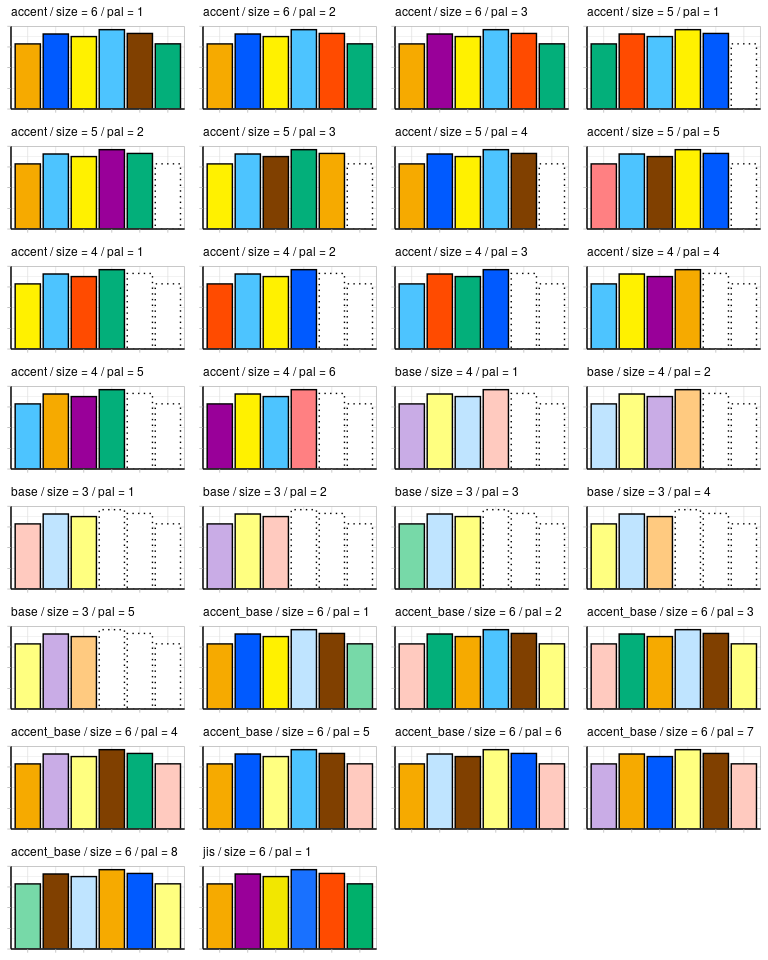
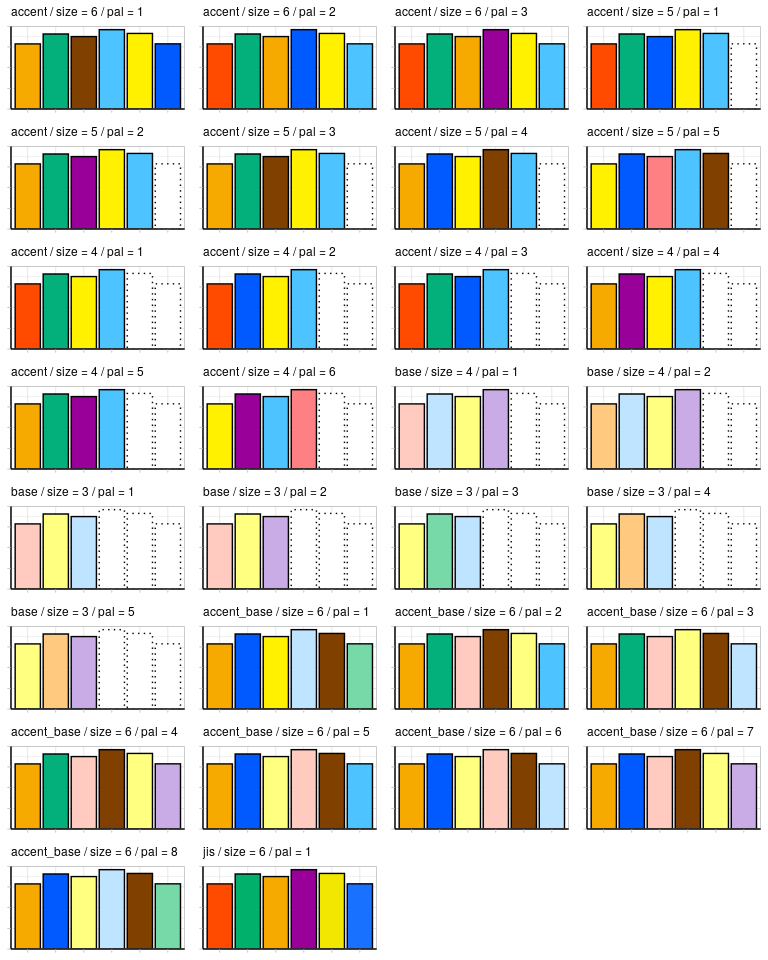
update README.Rmd

diff --git a/README.md b/README.md
@@ -25,12 +25,17 @@ ver.4」(<https://cudo.jp/?page_id=1565>)
 同様の趣旨で制定されている[JIS安全色](https://safetycolor.jp/)（JIS Z
 9103:2018）も使用できるよう更新。
 
-### Functions :
+## Functions :
 
-**`cud_color(colname)`**
+### `cud_color(colname)`
 
-CUD推奨カラーパレットの色名（下記）から対応するカラーコードを取得。存在しない色は
-NA を返す
+Get Color Universal Design or JIS Z 9103:2018 color code(s) from color
+name(s) listed berow. The color name(s) for JIS color should be
+specified with a “jis\_” prefix.  
+If “colorname” is not exist in the list, `NA` will be return.
+
+> CUD推奨カラーパレットの色名（下記）から対応するカラーコードを取得。存在しない色は
+> NA を返す
 
     #>  [1] "red"              "yellow"           "green"            "blue"            
     #>  [5] "skyblue"          "pink"             "orange"           "purple"          
@@ -39,34 +44,50 @@ NA を返す
     #> [17] "white"            "lightgray"        "lightgrey"        "gray"            
     #> [21] "grey"             "black"
 
-`jis_` の接頭語をつけて `jis_color()` の色を取得することもできる
+> `jis_` の接頭語をつけて `jis_color()` の色を取得することもできる
 
     #> [1] "jis_red"       "jis_yellowred" "jis_orange"    "jis_yellow"   
     #> [5] "jis_green"     "jis_blue"      "jis_purple"    "jis_white"    
     #> [9] "jis_black"
 
-**`jis_color(colname)`**
+### `jis_color(colname)`
 
-JIS Z 9103:2018 で定義されているカラーコードを取得。存在しない色は NA
-を返す
+Get JIS Z 9103:2018 color code.  
+`NA` will be return when “colorname” is not exist in the following list.
+
+> JIS Z 9103:2018 で定義されているカラーコードを取得。存在しない色は NA
+> を返す
 
     #> [1] "red"       "yellowred" "orange"    "yellow"    "green"     "blue"     
     #> [7] "purple"    "white"     "black"
 
-**`cud_pal(type, size, pal, direction, reorder, warn)`**
+### `cud_pal(type, size, pal, direction, reorder, warn)`
 
-「比較的見分けやすい組み合わせ」をパレットとして使用する。可能な組み合わせは下記サンプルを参照。  
-隣り合う色の色差を最大化するために色を並べ替えている。出典資料に出てくる順に戻したい場合は、`reorder = F`。
+Use patterns recommended as easy-to-distinguish combinations in the
+materials as a palette. See the sample at the end of this page for
+possible combinations.  
+The default pallete is `type = "accent", size = 6, pal = 1`. If
+requested number of colors is more than in the pallete, colors are used
+repeatedly (warning message could be suppressed with `warn = F`
+option).  
+Colors are reorderd to maximize the color difference between adjacent
+colors. If you want to go back to the order in which they described in
+the source material, use `reorder = F`.
 
-デフォルトはアクセントカラー
-6色のひとつ。色が足りない場合は警告メッセージ（`warn = F`
-でoff可）を出してループで使用する。
+> 「比較的見分けやすい組み合わせ」をパレットとして使用する。可能な組み合わせは下記サンプルを参照。  
+> 隣り合う色の色差を最大化するために色を並べ替えている。出典資料に出てくる順に戻したい場合は、`reorder = F`。
+>
+> デフォルトはアクセントカラー
+> 6色のひとつ。色が足りない場合は警告メッセージ（`warn = F`
+> でoff可）を出してループで使用する。
 
-**`jis_pal(direction, reorder, warn)`**
+### `jis_pal(direction, reorder, warn)`
 
-JIS Z 9103:2018
-で定義されている色をパレットとして使用。`cud_pal(type = "jis")`
-を呼び出すラッパー関数。
+This is a wrapper function calls ‘cud_pal()’ with type = “jis”.
+
+> JIS Z 9103:2018
+> で定義されている色をパレットとして使用。`cud_pal(type = "jis")`
+> を呼び出すラッパー関数。
 
 ## Installation
 
@@ -89,23 +110,23 @@ cud_color(c("red", "blue", "magenta", "purple"))
 #> [1] "#FF4B00" "#005AFF" NA        "#990099"
 
 cud_pal()()
-#> [1] "#F6AA00" "#005AFF" "#FFF100" "#4DC4FF" "#804000" "#03AF7A"
+#> [1] "#F6AA00" "#03AF7A" "#804000" "#4DC4FF" "#FFF100" "#005AFF"
 
 cud_pal(type = "a", size = 5, pal = 2, direction = -1)()
-#> [1] "#03AF7A" "#990099" "#FFF100" "#4DC4FF" "#F6AA00"
+#> [1] "#4DC4FF" "#FFF100" "#990099" "#03AF7A" "#F6AA00"
 
 cud_pal(type = "a", size = 7, pal = 2, direction = -1)()
 #> Warning in cud_pal(type = "a", size = 7, pal = 2, direction = -1): 
 #> 'size' should be in 1:6. Default (6) will be used.
-#> [1] "#03AF7A" "#FF4B00" "#4DC4FF" "#FFF100" "#005AFF" "#F6AA00"
+#> [1] "#4DC4FF" "#FFF100" "#005AFF" "#F6AA00" "#03AF7A" "#FF4B00"
 
 cud_pal(type = "a", size = 5, pal = 2, direction = -1)(6)
 #> Warning in cud_pal(type = "a", size = 5, pal = 2, direction = -1)(6): 
 #> Requested colors (6) > this palette (5). The palette will be used repeatedly.
-#> [1] "#03AF7A" "#990099" "#FFF100" "#4DC4FF" "#F6AA00" "#03AF7A"
+#> [1] "#4DC4FF" "#FFF100" "#990099" "#03AF7A" "#F6AA00" "#4DC4FF"
 
 cud_pal(type = "a", size = 5, pal = 2, direction = -1, warn = FALSE)(6)
-#> [1] "#03AF7A" "#990099" "#FFF100" "#4DC4FF" "#F6AA00" "#03AF7A"
+#> [1] "#4DC4FF" "#FFF100" "#990099" "#03AF7A" "#F6AA00" "#4DC4FF"
 ```
 
 ### color sample
@@ -127,3 +148,6 @@ differences between adjacent colors)
 - :bookmark:[v0.3.0](https://github.com/mokztk/cudpalette/releases/tag/v0.3.0)
   (2023-10-20): reorder palettes to maximize color differences between
   adjacent colors.
+- :bookmark:[v0.4.0](https://github.com/mokztk/cudpalette/releases/tag/v0.4.0)
+  (2024-02-20): reorder (again) palettes to maximize color differences
+  considering repeated use.
